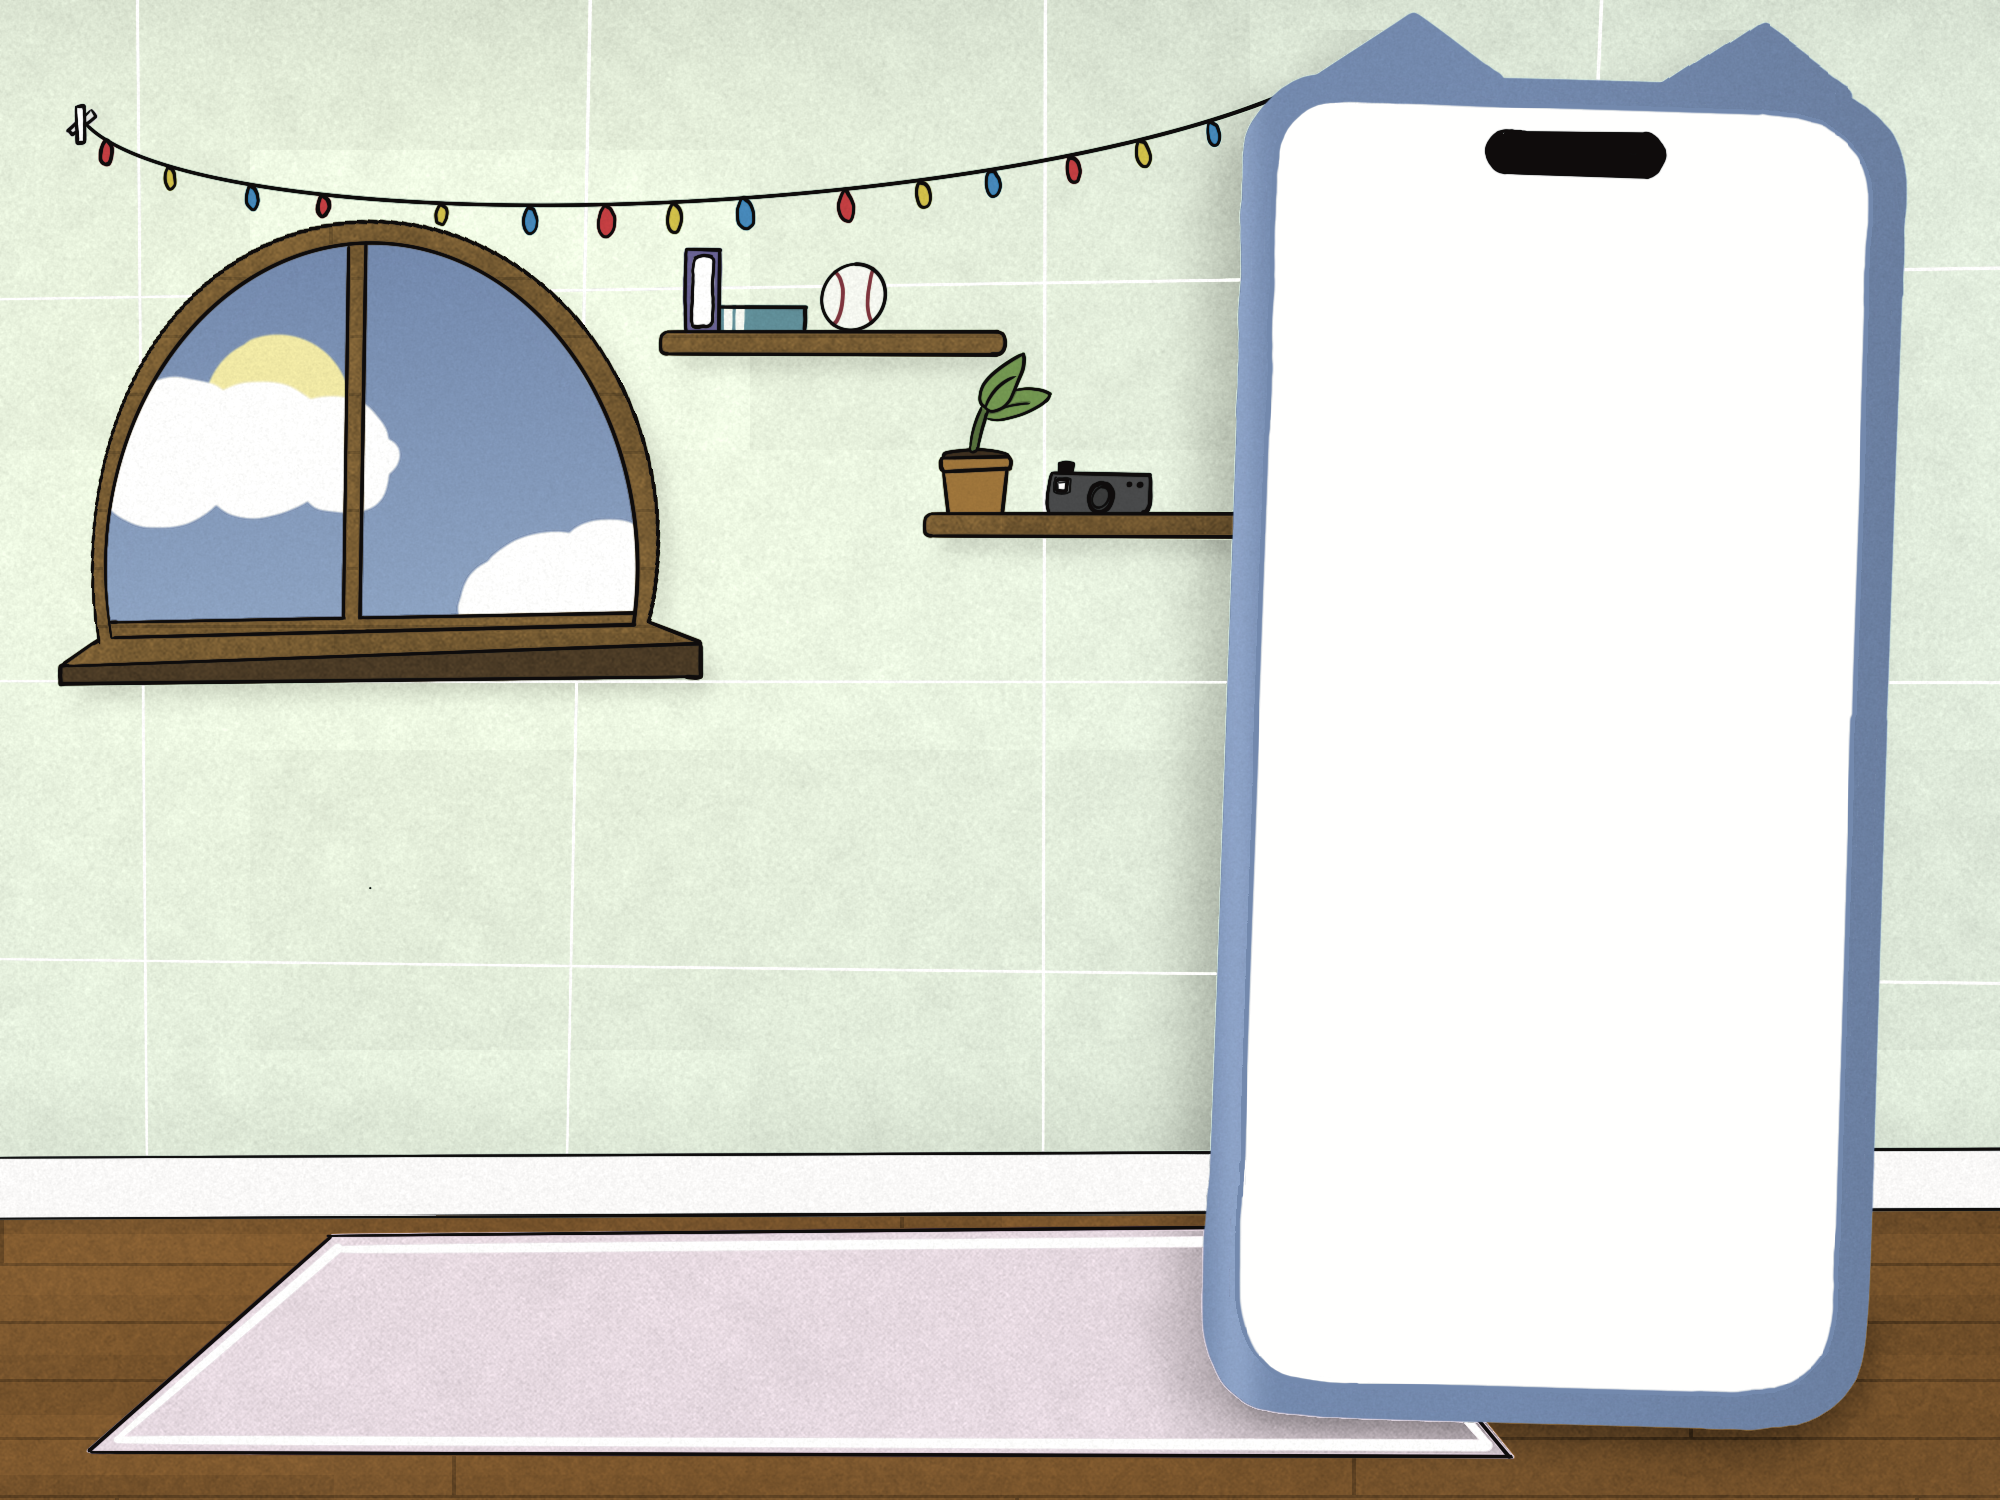
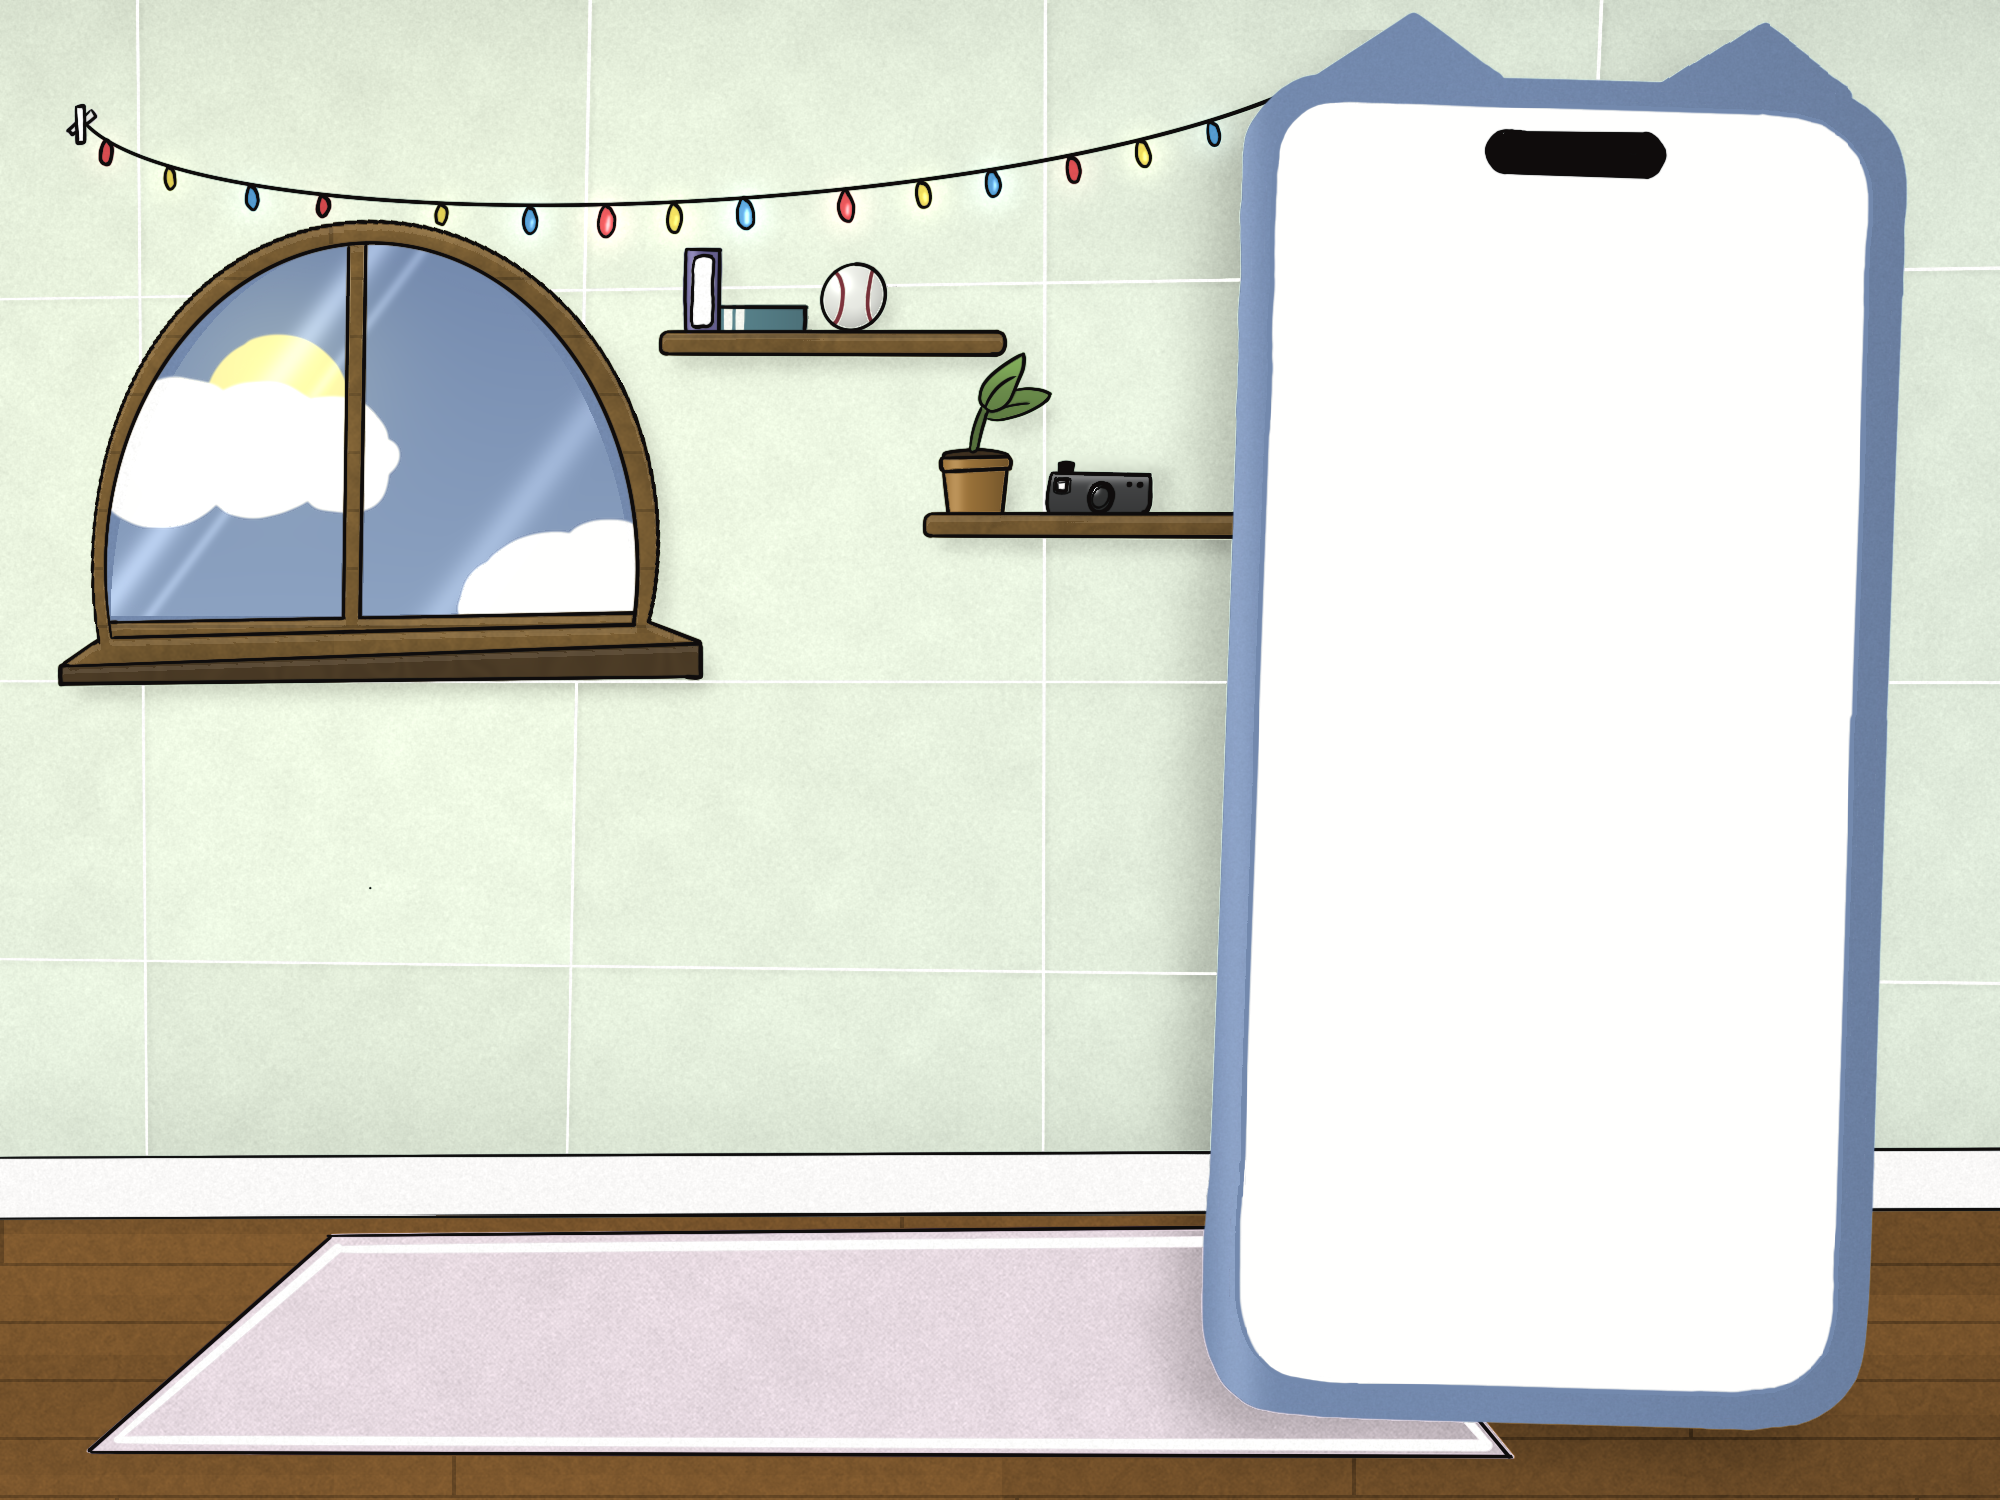
Room v2: glassy window, glowing string lights, shaded ball/camera/pot/plant/books, real tile tones (version 14)
Claude-Session: https://claude.ai/code/session_01D6d5DQCGgYSzXEExg5uxxW

diff --git a/digipal.py b/digipal.py
@@ -177,7 +177,7 @@ HEART = QColor("#ff6b8b")
 NOTE = QColor("#9b8cd9")
 
 # ---- updates (from Digi's home on GitHub) ----
-APP_VERSION = 13                       # bump this (and version.json) when you publish a new Digi
+APP_VERSION = 14                       # bump this (and version.json) when you publish a new Digi
 UPDATE_REPO = "Sunnyxxsunflower/Digipal"
 UPDATE_RAW = "https://raw.githubusercontent.com/%s/main/" % UPDATE_REPO
 APP_LOCK = None                       # the "only one Digi" lock (let go of it when restarting)
